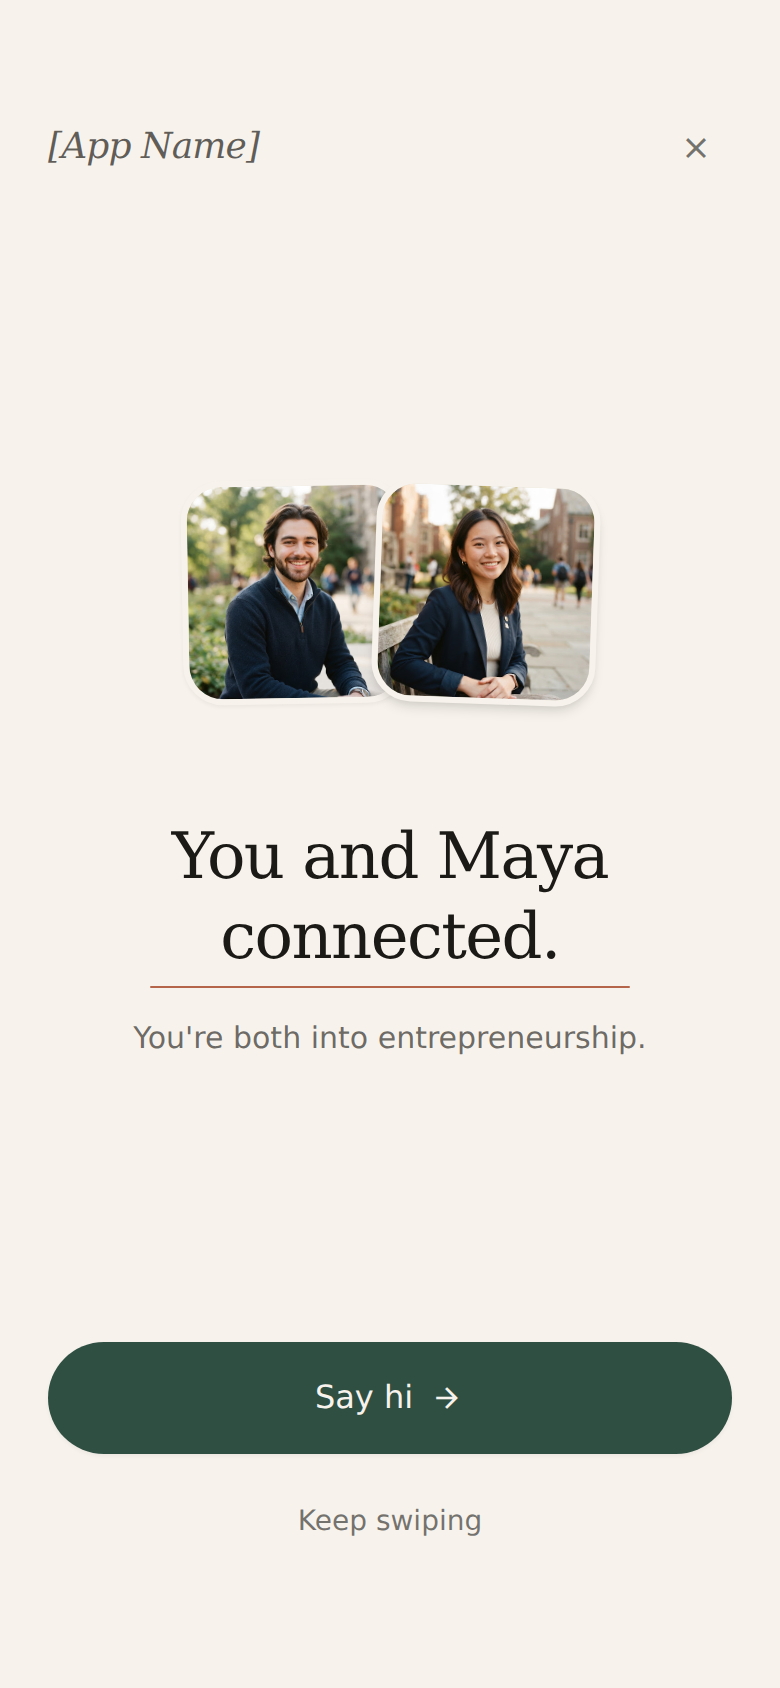
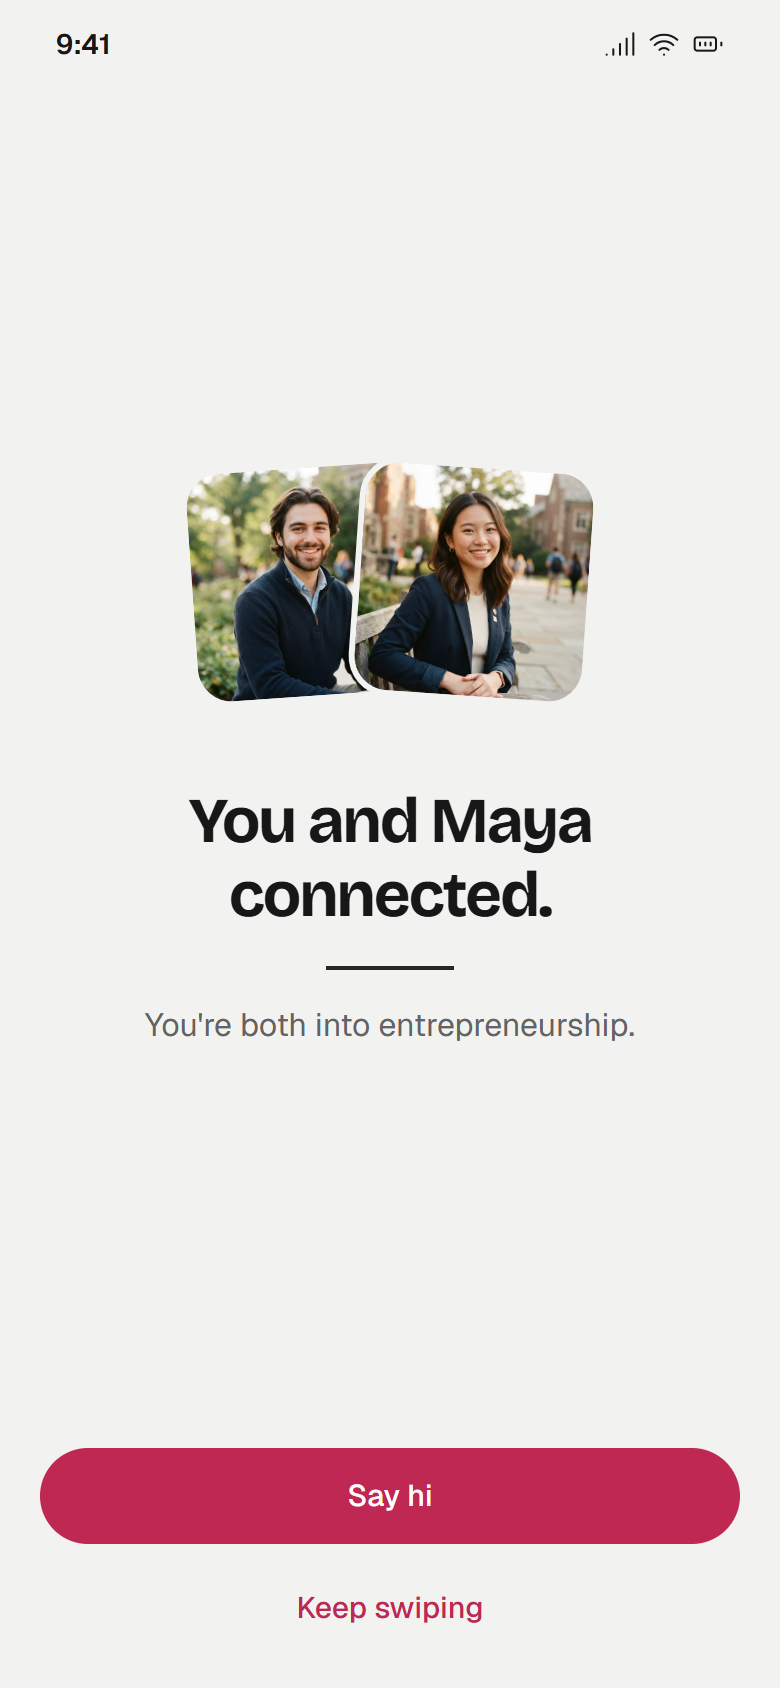
Re-shoot the landing screenshots from the current app
The five app screens on the landing page were still the original Stitch
mockups: cream and green, "[App Name]" in the header, profile cards built
around a bio and goal chips. The prototype has since moved to Court —
raspberry on near-white, SunLinks in the header, cards built around an
inset Now/Dream panel — so the page was advertising a design that no
longer exists.

Captured straight from demo/ at 390x844 @2x, the sizes the page already
declares, with the demo's own device framing and its bezel flattened off
because .phone draws its own.

Alt text moved with the images: "me" is Alex Rivera now, not Jordan
Reyes, and the monogram tile in the photo-reveal section reads AR to
match.

diff --git a/landing/index.html b/landing/index.html
@@ -42,10 +42,10 @@
         </div>
         <div class="hero__stage" aria-hidden="false">
           <figure class="phone phone--back load-phone" style="--i:1">
-            <img src="img/03-connection-moment.png" width="780" height="1688" alt="Connection screen: photos of Jordan and Maya side by side, with the text 'You and Maya connected. You're both into entrepreneurship.'">
+            <img src="img/03-connection-moment.png" width="780" height="1688" alt="Connection screen: photos of Alex and Maya side by side, with the text 'You and Maya connected. You're both into entrepreneurship.'">
           </figure>
           <figure class="phone phone--front load-phone" style="--i:0">
-            <img src="img/02-discover.png" width="780" height="1688" fetchpriority="high" alt="Discover screen: a profile card for Maya Chen, Junior in Mechanical Engineering, showing her current title Robotics Club Lead, dream title Robotics Engineer, and a prompt answer, with Pass and Connect buttons.">
+            <img src="img/02-discover.png" width="780" height="1688" fetchpriority="high" alt="Discover screen: a profile card for Maya Chen, Junior in Mechanical Engineering, tagged Entrepreneurship, showing Now: Robotics Club Lead and Dream: Robotics Engineer, and a prompt answer, with Pass and Connect buttons.">
           </figure>
         </div>
       </div>
@@ -68,7 +68,7 @@
           <article class="step" data-screen="0">
             <h3 class="step__title">Build a profile around where you're headed</h3>
             <p>Your current title, your dream title, your goals and a few prompts. Everything on it is written so someone can reply.</p>
-            <figure class="phone phone--inline"><img src="img/09-my-profile.png" width="780" height="1688" loading="lazy" alt="Profile screen for Jordan Reyes: Operations Intern now, Head of Operations as the dream, with goals and an About section."></figure>
+            <figure class="phone phone--inline"><img src="img/09-my-profile.png" width="780" height="1688" loading="lazy" alt="Profile screen for Alex Rivera: Barista at Campus Coffee Co. now, Startup founder as the dream, with a profile strength meter, goals and an About section."></figure>
           </article>
 
           <article class="step" data-screen="1">
@@ -80,7 +80,7 @@
           <article class="step" data-screen="2">
             <h3 class="step__title">It's a connection</h3>
             <p>When you both tap Connect, photos appear and the chat opens. We'll show you what you have in common.</p>
-            <figure class="phone phone--inline"><img src="img/03-connection-moment.png" width="780" height="1688" loading="lazy" alt="Connection screen with photos of Jordan and Maya."></figure>
+            <figure class="phone phone--inline"><img src="img/03-connection-moment.png" width="780" height="1688" loading="lazy" alt="Connection screen with photos of Alex and Maya."></figure>
           </article>
 
           <article class="step" data-screen="3">
@@ -207,7 +207,7 @@
       <div class="wrap reveal-photos__inner">
         <div class="pair" id="pair" aria-hidden="true">
           <div class="pair__tile pair__tile--l">
-            <span class="pair__mono">JR</span>
+            <span class="pair__mono">AR</span>
             <img src="img/me.jpg" width="600" height="600" alt="" loading="lazy">
           </div>
           <div class="pair__tile pair__tile--r">
